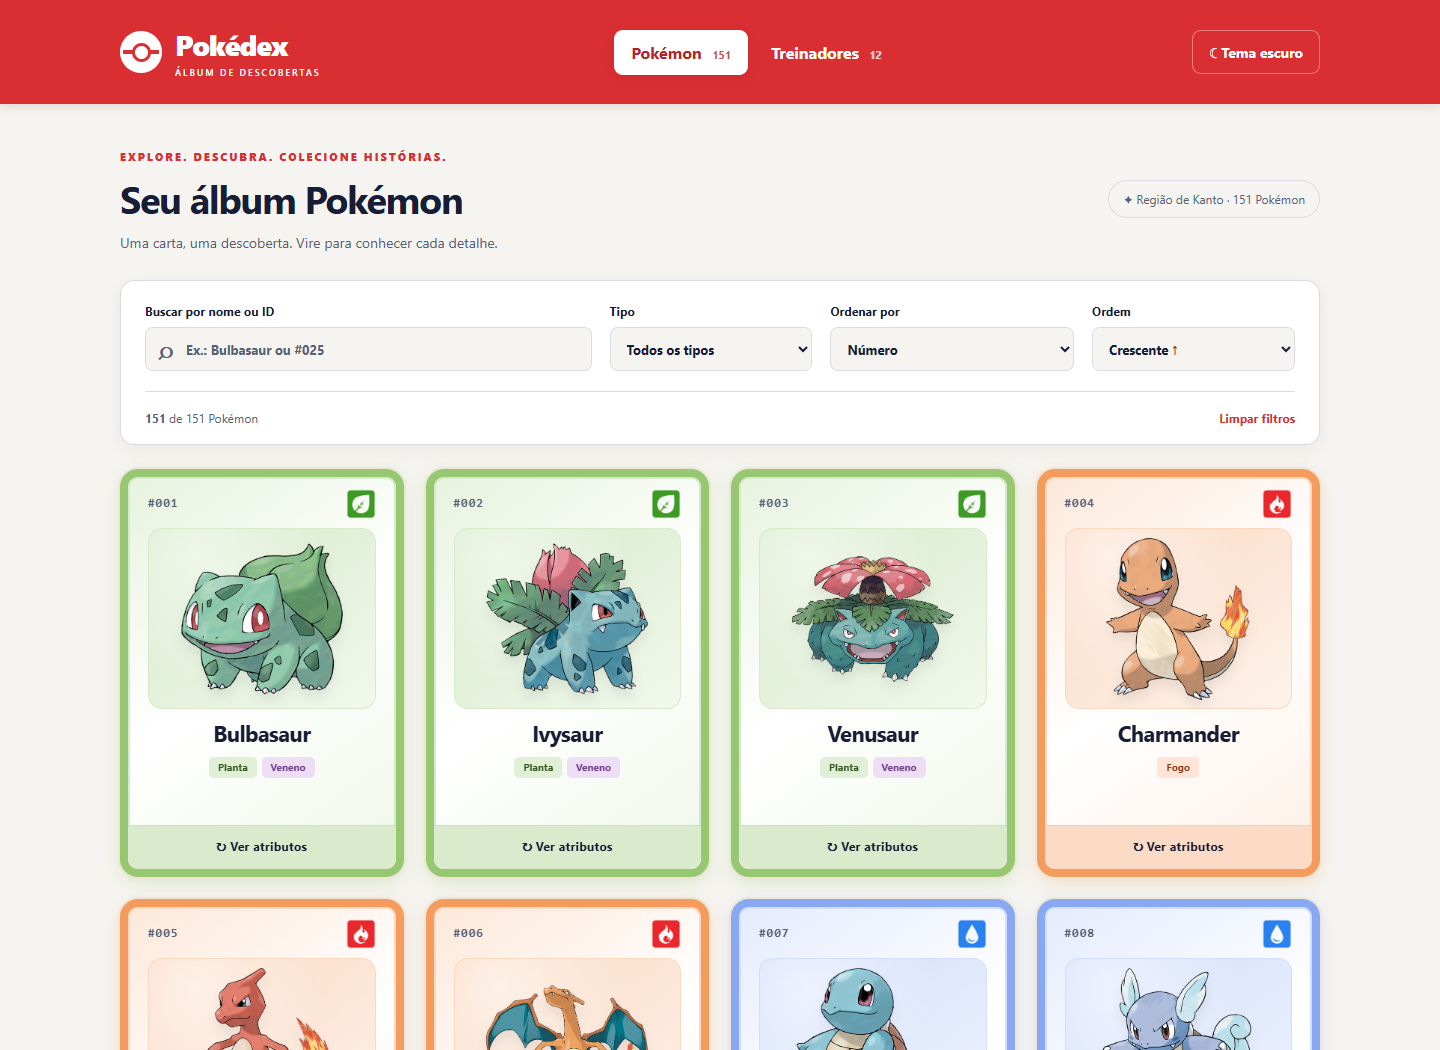
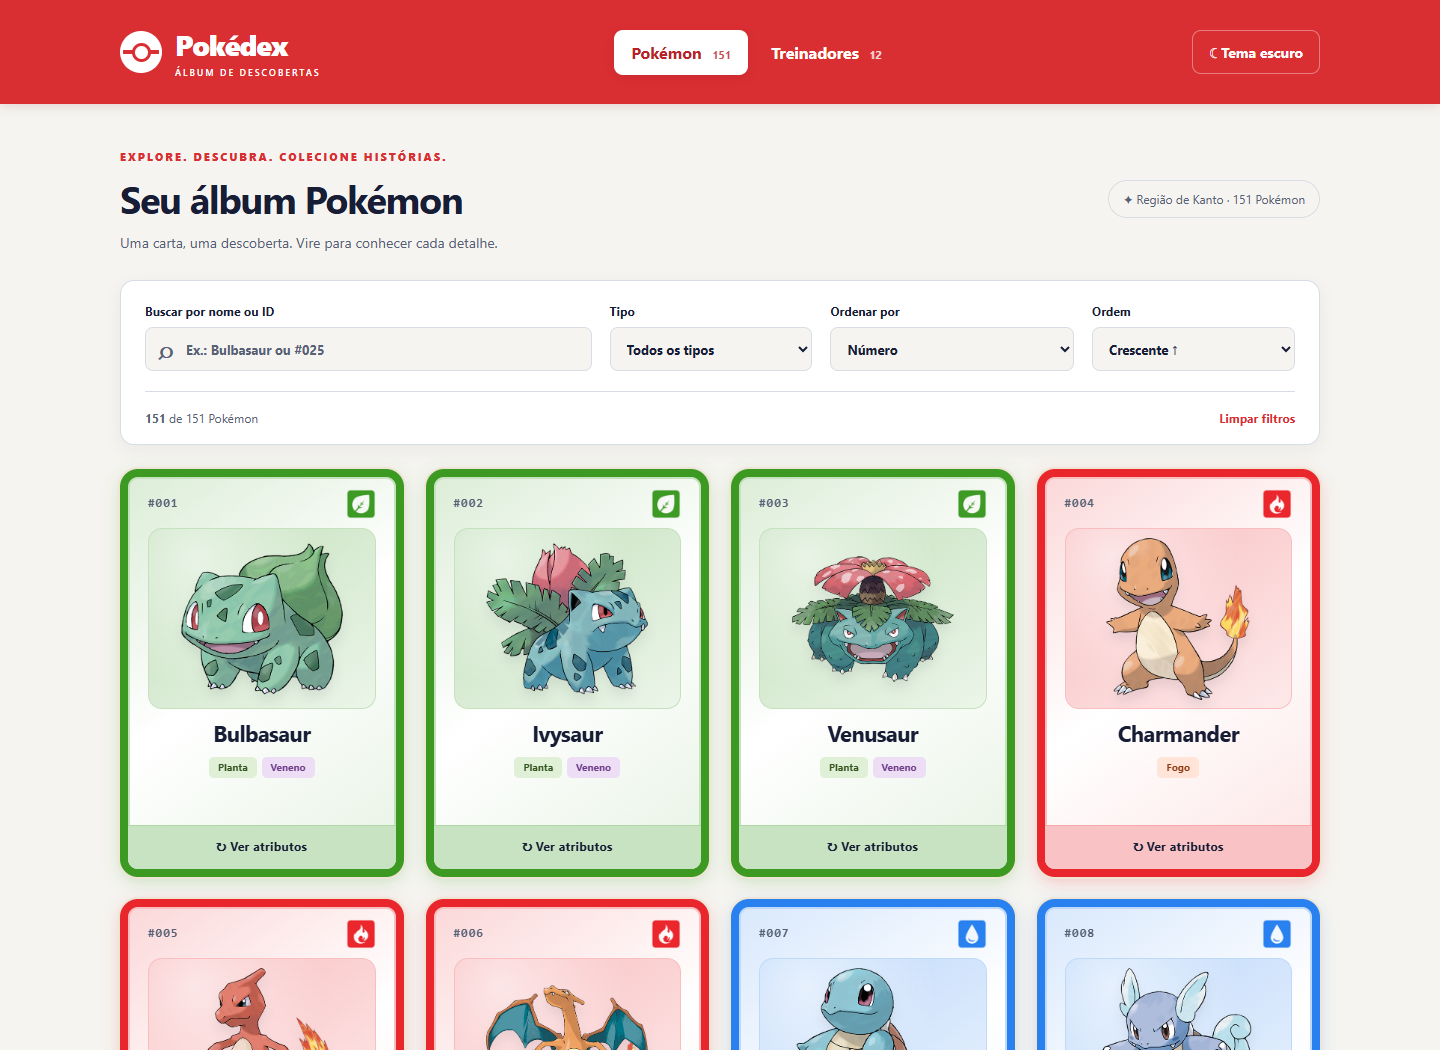
fix(ui): alinha as bordas às cores originais dos símbolos

Changed region(s): [[0.0625, 0.4267, 0.9375, 1.0], [0.0625, 0.4571, 0.0938, 0.8229]]

diff --git a/src/css/cards.css b/src/css/cards.css
@@ -38,7 +38,7 @@
     var(--surface) 48%,
     color-mix(in srgb, var(--accent) 12%, var(--surface))
   );
-  border: 8px solid color-mix(in srgb, var(--accent) 78%, var(--surface));
+  border: 8px solid var(--accent);
   border-radius: 18px;
   box-shadow:
     0 0 0 2px #eee5d5,
@@ -259,58 +259,58 @@
   padding-top: 8px;
 }
 .accent-grass {
-  --accent: #78b94a;
+  --accent: #3c9a23;
 }
 .accent-fire {
-  --accent: #f08030;
+  --accent: #e9262c;
 }
 .accent-water {
-  --accent: #6890f0;
+  --accent: #2980ef;
 }
 .accent-poison {
-  --accent: #a040a0;
+  --accent: #8f3dc9;
 }
 .accent-electric {
-  --accent: #e5bf24;
+  --accent: #f6b900;
 }
 .accent-ground {
-  --accent: #d1b05c;
+  --accent: #904e23;
 }
 .accent-flying {
-  --accent: #a890f0;
+  --accent: #80b6f3;
 }
 .accent-psychic {
-  --accent: #f05888;
+  --accent: #ef4079;
 }
 .accent-fighting {
-  --accent: #c03028;
+  --accent: #ff7f00;
 }
 .accent-steel {
-  --accent: #9a9ab3;
+  --accent: #599cb1;
 }
 .accent-normal {
-  --accent: #96999e;
+  --accent: #9f9f9d;
 }
 .accent-bug {
-  --accent: #a0b820;
+  --accent: #879e12;
 }
 .accent-ice {
-  --accent: #70c8c8;
+  --accent: #3ad9ff;
 }
 .accent-ghost {
-  --accent: #705898;
+  --accent: #6f4170;
 }
 .accent-rock {
-  --accent: #b8a038;
+  --accent: #afa783;
 }
 .accent-dragon {
-  --accent: #7050d8;
+  --accent: #4b64db;
 }
 .accent-fairy {
-  --accent: #dc8fb5;
+  --accent: #ec6ff3;
 }
 .accent-dark {
-  --accent: #705848;
+  --accent: #50413a;
 }
 @media (prefers-reduced-motion: reduce) {
   .card-rotator,

diff --git a/README.md b/README.md
@@ -28,7 +28,7 @@ O build fica em `dist/`. O preview normalmente usa **http://127.0.0.1:4173**. Os
 - Combine busca com tipo, inclusive tipos secundários, e ordene por número, nome ou qualquer um dos seis atributos, nos dois sentidos. Empates usam ID crescente. “Limpar filtros” preserva a ordenação.
 - Clique, Enter ou Espaço vira/desvira cada carta independentemente. Hover apenas destaca. Os versos mostram os seis valores originais e barras na mesma escala global, mesmo com filtros ativos.
 - As duas faces usam uma moldura colorida com contorno claro e brilho. A cor e o símbolo decorativo dos Pokémon acompanham o tipo principal; treinadores usam vermelho. A área da ilustração também recebe um fundo suave na cor do tipo.
-- O conteúdo das cartas é centralizado, com uma faixa “Ver atributos” na cor do tipo principal. A paleta representa os elementos do JSON, não a aparência dos Pokémon: Normal é cinza, Fogo é laranja, Água é azul e assim por diante. Em Pokémon com dois tipos, o primeiro define a moldura e a faixa; os dois continuam nas etiquetas.
+- O conteúdo das cartas é centralizado, com uma faixa “Ver atributos” na cor do tipo principal. A paleta representa os elementos do JSON, não a aparência dos Pokémon: As cores são extraídas do fundo dos ícones fornecidos: Normal é cinza, Fogo é vermelho, Água é azul e assim por diante. A borda usa a cor exata; fundos e brilho usam variações dessa mesma cor. Em Pokémon com dois tipos, o primeiro define a moldura e a faixa; os dois continuam nas etiquetas.
 - A última carta Pokémon virada abre o painel de treinadores. Virar outra troca o contexto sem desvirar a anterior. Desvirar a carta vinculada fecha o painel; desvirar outra não interfere.
 - X/Escape fecha apenas o painel. Escape e o fechamento por teclado devolvem foco à carta vinculada. O painel não é modal, não captura foco e não tem temporizador.
 - Filtrar a carta vinculada para fora da lista ou trocar de aba fecha o painel. As viradas são preservadas; nenhum perfil anterior reabre automaticamente. Para reabrir o perfil de uma carta já virada, desvire e vire novamente.
